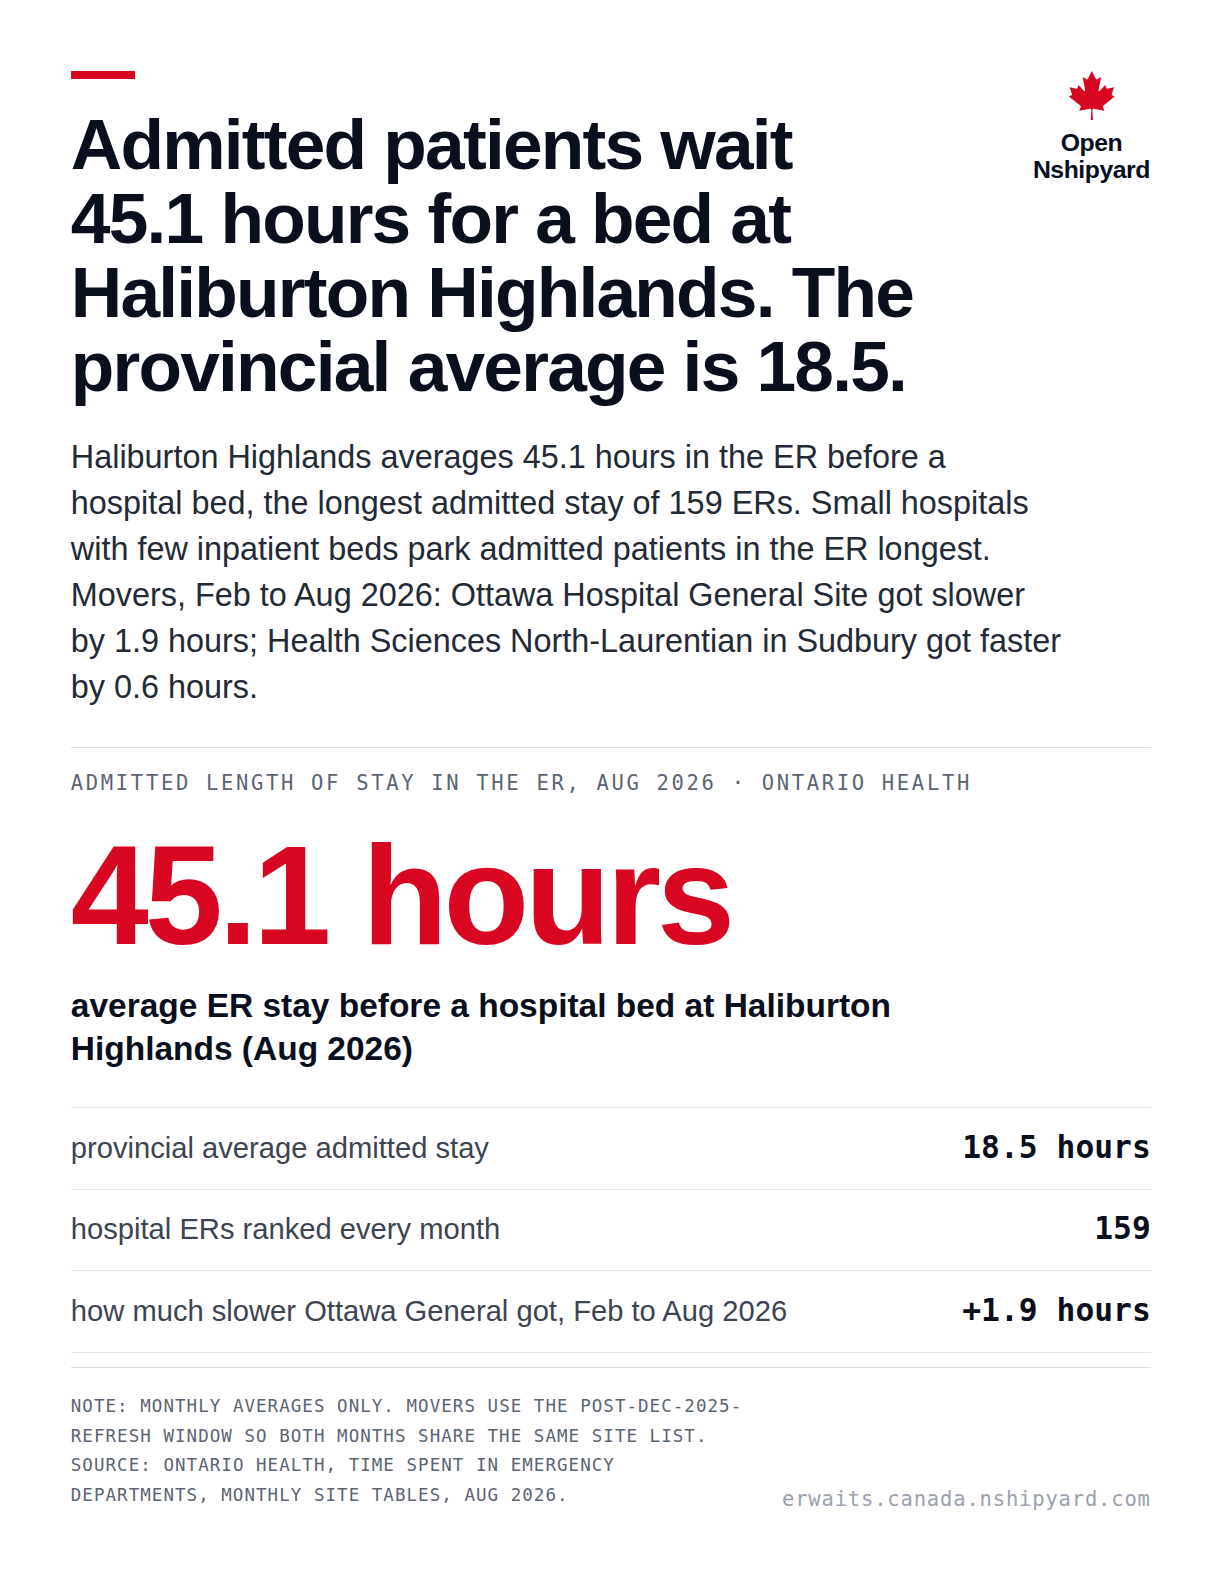
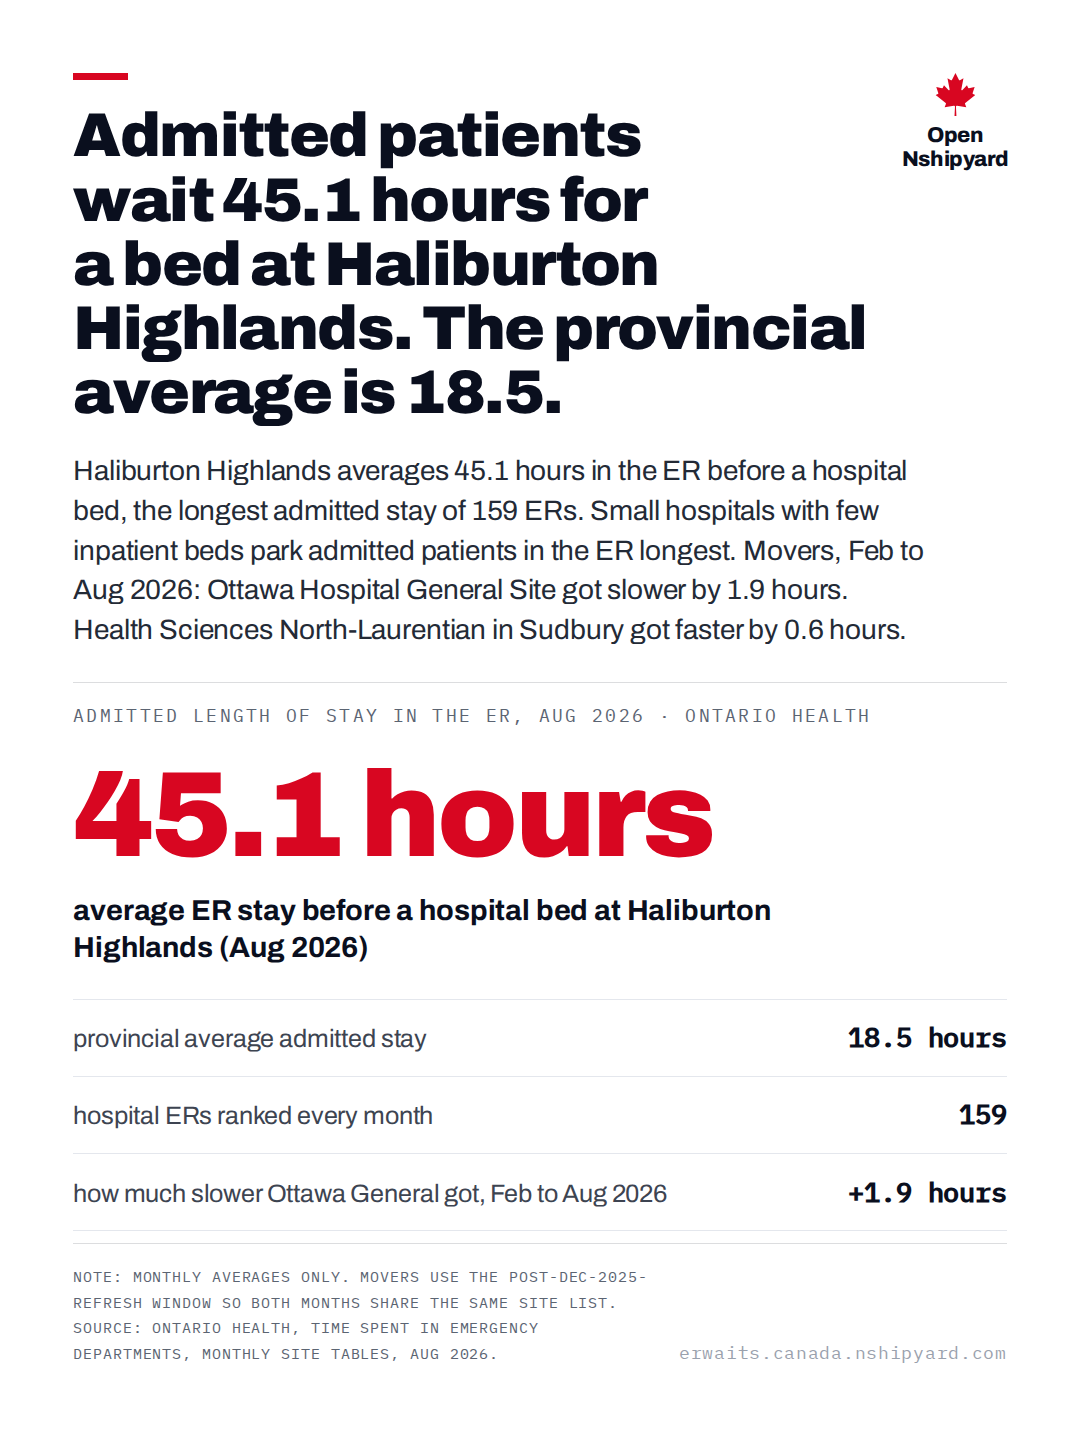
Fix semicolons in spend-concentration and erwaits-admitted card decks; re-render card PNGs

diff --git a/src/charts/chart-data.ts b/src/charts/chart-data.ts
@@ -418,7 +418,7 @@ export const CHARTS: ChartDef[] = [
     slug: "spend-concentration",
     kicker: "Top 6 vendors by total awarded spend · 2012-2026",
     headline: "The top 10 vendors capture 20.8% of the city's $21.5B.",
-    deck: "Toronto publishes every awarded contract, but the same vendor hides behind 4,240 spellings. Entity resolution collapses them into 4,082 canonical vendors; Furfari Paving leads at $781.7M across 58 awards.",
+    deck: "Toronto publishes every awarded contract, but the same vendor hides behind 4,240 spellings. Entity resolution collapses them into 4,082 canonical vendors. Furfari Paving leads at $781.7M across 58 awards.",
     note: "13,084 records; $21.5B after quarantining 3 defective records that would have overstated spend by $15.1B. 2,268 vendors won exactly once.",
     source: "City of Toronto Open Data (CKAN): awarded contracts, non-competitive contracts, consulting expenditures.",
     shareText:
@@ -1403,7 +1403,7 @@ export const CHARTS: ChartDef[] = [
       slug: "erwaits-admitted",
       kicker: "Admitted length of stay in the ER, Aug 2026 · Ontario Health",
       headline: "Admitted patients wait 45.1 hours for a bed at Haliburton Highlands. The provincial average is 18.5.",
-      deck: "Haliburton Highlands averages 45.1 hours in the ER before a hospital bed, the longest admitted stay of 159 ERs. Small hospitals with few inpatient beds park admitted patients in the ER longest. Movers, Feb to Aug 2026: Ottawa Hospital General Site got slower by 1.9 hours; Health Sciences North-Laurentian in Sudbury got faster by 0.6 hours.",
+      deck: "Haliburton Highlands averages 45.1 hours in the ER before a hospital bed, the longest admitted stay of 159 ERs. Small hospitals with few inpatient beds park admitted patients in the ER longest. Movers, Feb to Aug 2026: Ottawa Hospital General Site got slower by 1.9 hours. Health Sciences North-Laurentian in Sudbury got faster by 0.6 hours.",
       note: "Monthly averages only. Movers use the post-Dec-2025-refresh window so both months share the same site list.",
       source: "Ontario Health, Time Spent in Emergency Departments, monthly site tables, Aug 2026.",
       shareText:
